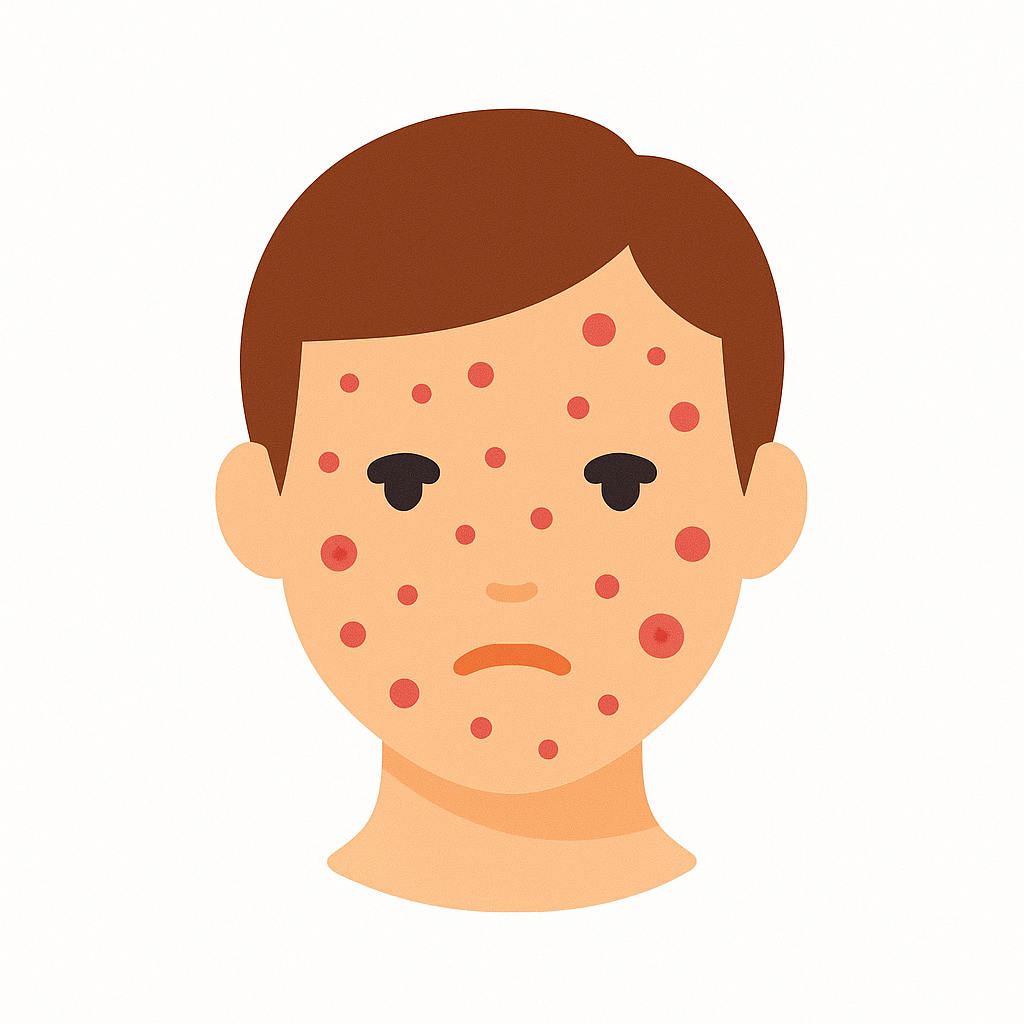
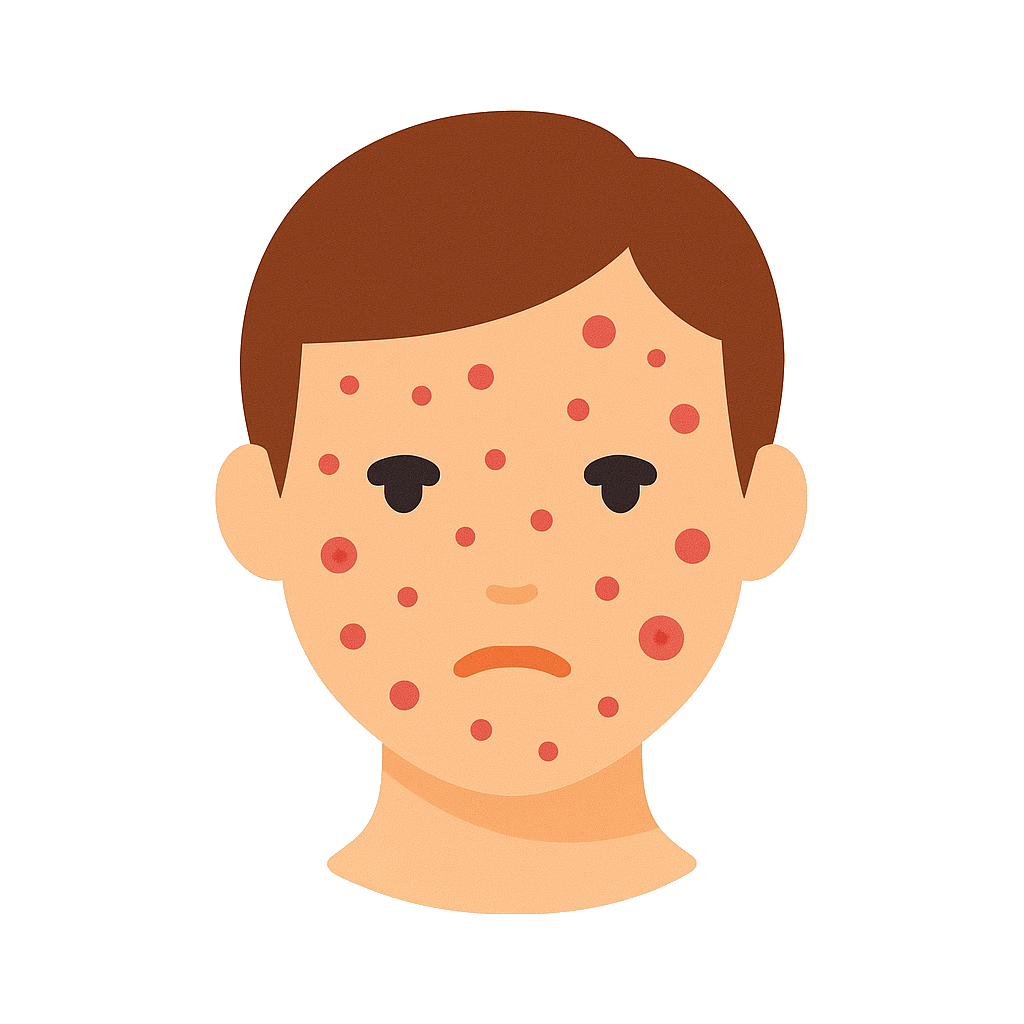
Remove white bg from images

diff --git a/src/components/screens/patient/Footer.tsx b/src/components/screens/patient/Footer.tsx
@@ -1,6 +1,7 @@
 import { TextRegular, TextSemiBold } from "@/components/StyledText";
 import Colors from "@/constants/Colors";
 import { Image } from "expo-image";
+import { Link } from "expo-router";
 import React from "react";
 import { StyleSheet, View } from "react-native";
 
@@ -9,8 +10,16 @@ const Footer = () => {
     <View style={styles.container}>
       <TextRegular style={styles.footerText}>
         DrX Telehealth is committed to providing you with excellent care and
-        support. Learn more by reviewing our terms of services and privacy
-        policy.
+        support. Learn more by reviewing our{" "}
+        <Link href="/terms-of-service">
+          <TextRegular style={styles.textLink}>Terms of Service</TextRegular>
+        </Link>{" "}
+        and{" "}
+        <Link href="/privacy-policy">
+          {" "}
+          <TextRegular style={styles.textLink}>Privacy Policy</TextRegular>
+        </Link>
+        .
       </TextRegular>
       <View style={styles.trademark}>
         <Image
@@ -41,6 +50,9 @@ const styles = StyleSheet.create({
     marginVertical: 16,
     marginHorizontal: 16,
     textAlign: "center", // Center the text
+  },
+  textLink: {
+    textDecorationLine: "underline",
   },
   trademark: {
     backgroundColor: Colors.black,
